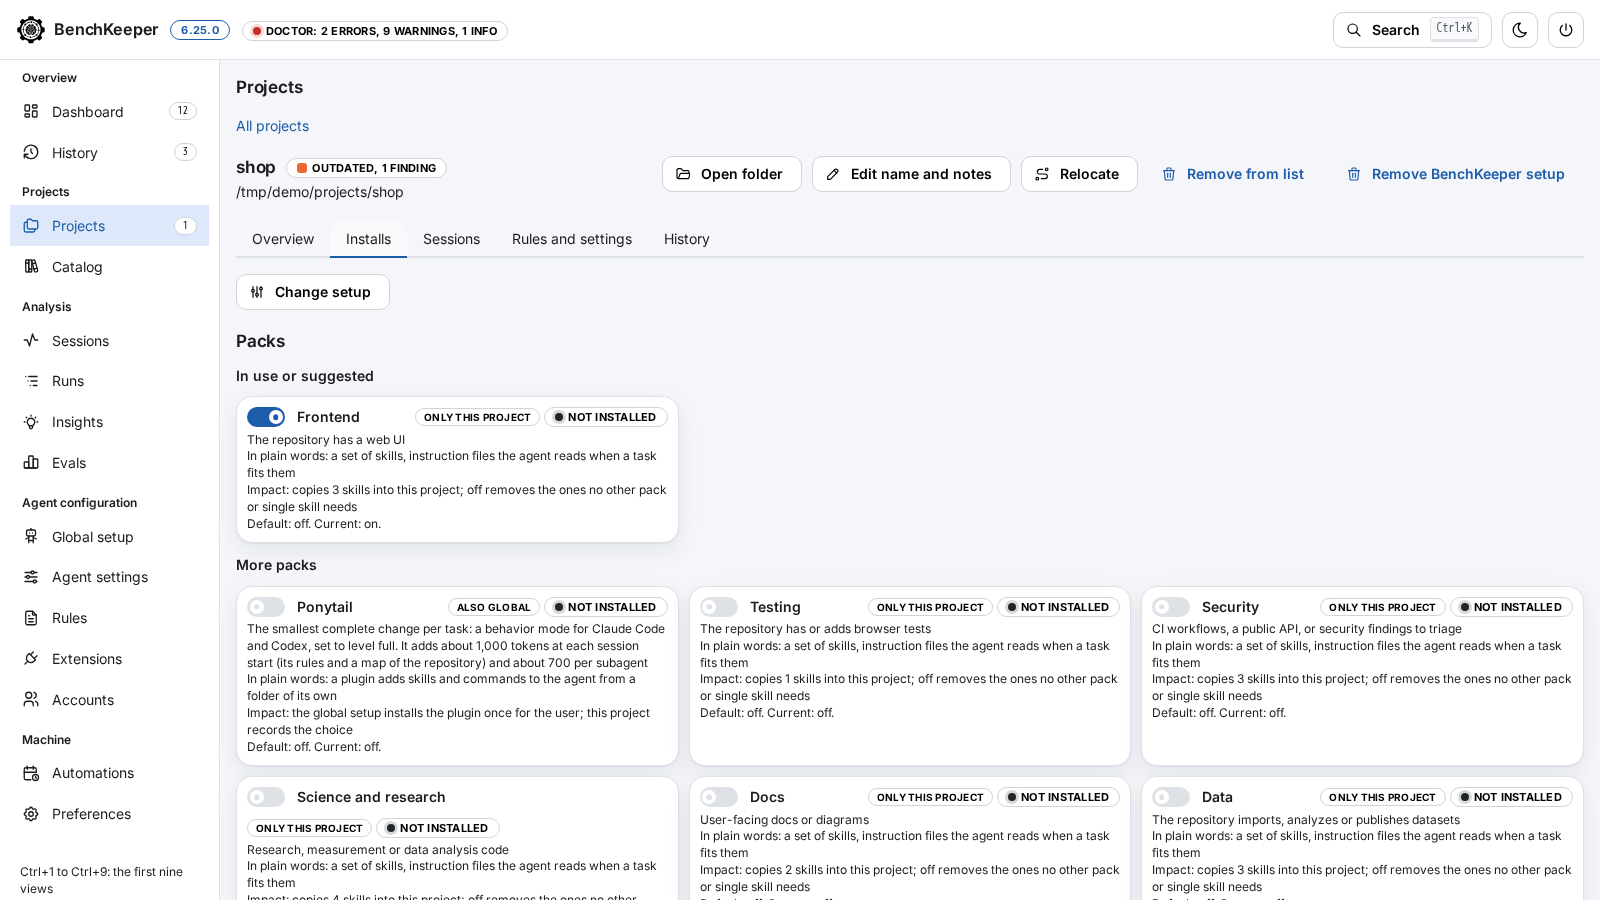
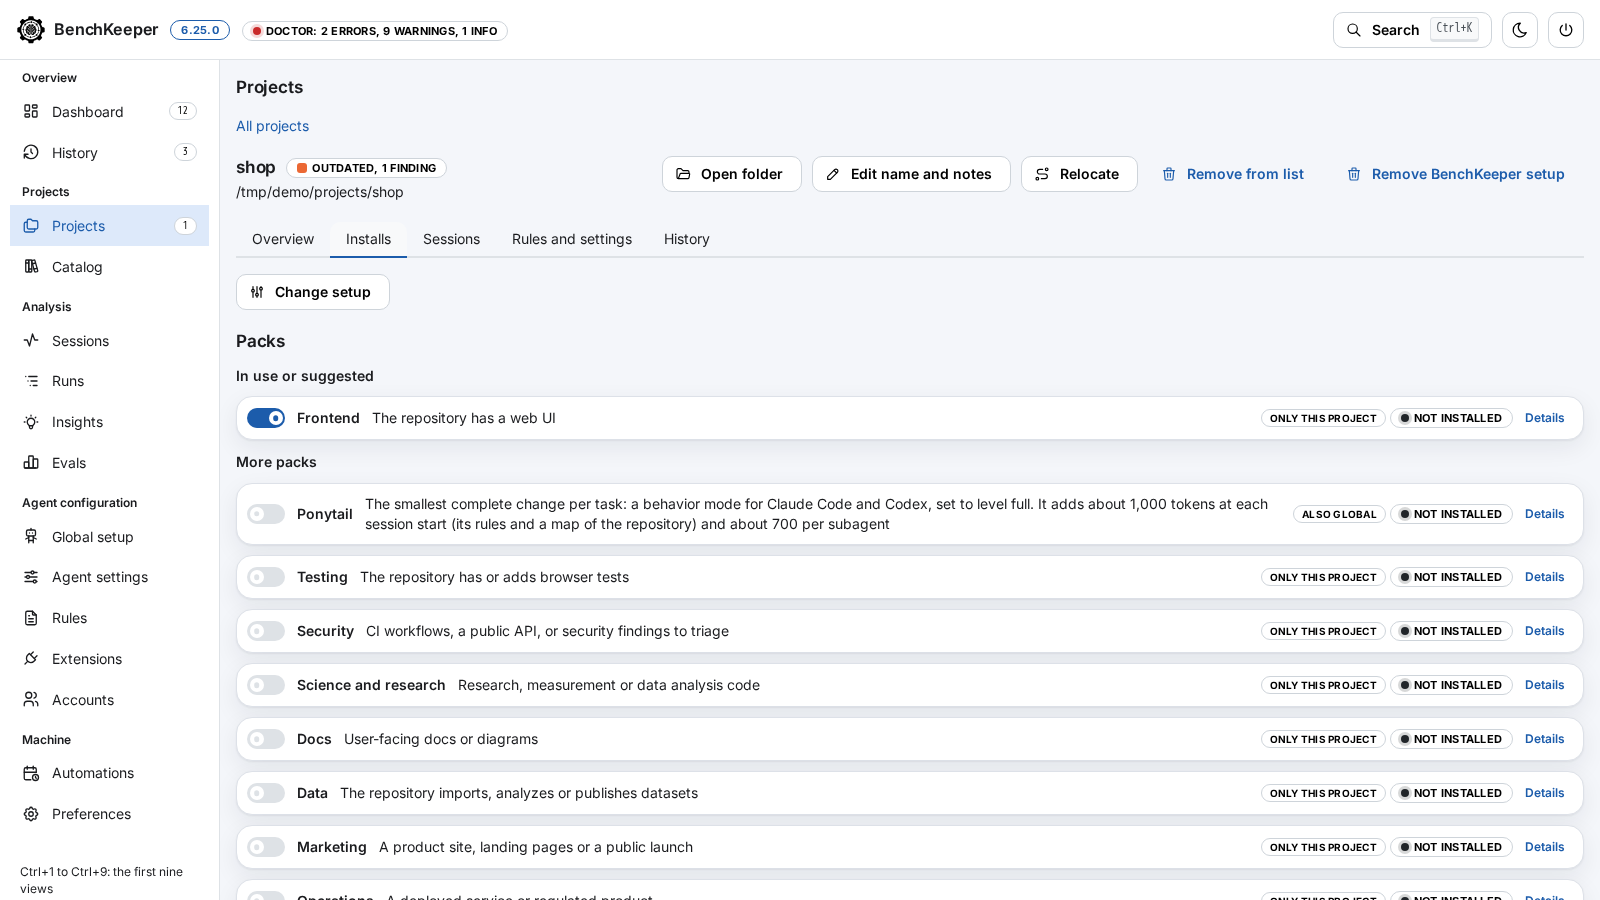
feat(app): show one compact row per pack in the Installs tab (#833)
Each pack in a project's Installs tab is one full-width row: the switch with the pack name, the one-sentence summary, and the scope and state chips. Plain words, impact, and default and current open under a Details button per pack. Switching a pack, its scope and its state work as before; the Skills and Agent files sections are unchanged.

Refs #802

diff --git a/app/ui/skillstates.jsx b/app/ui/skillstates.jsx
@@ -1,5 +1,5 @@
-import { Badge, Button, Group, Loader, Modal, Paper, Select, SimpleGrid, Stack, Switch, Table, Text, Title } from '@mantine/core';
-import { useRef, useState } from 'react';
+import { Badge, Button, Group, Loader, Modal, Paper, Select, Stack, Switch, Table, Text, Title } from '@mantine/core';
+import { useId, useRef, useState } from 'react';
 import { Plan, Section, StateBadge } from './parts.jsx';
 import { Loading, Note, icon, useApi } from './shell.jsx';
 import { label } from './cards.js';
@@ -9,24 +9,42 @@ const STATES = ['current', 'outdated', 'modified', 'removed', 'disabled'];
 const short = (ref) => ref?.slice(0, 12);
 
 // One row of a project's Installs tab: a switch, the scope hint, the state on disk, the scopes an agent fixes with the reason,
-// and the five facts of the explainer (summary, plain words, impact, default, current). A busy switch ignores clicks but
-// stays focusable (a disabled input loses the keyboard focus).
-export function InstallRow({ label, checked, onChange, disabled, busy, hint, state, fixed = [], facts, why }) {
+// and the five facts of the explainer (summary, plain words, impact, default, current). A row with `details` (a pack: the
+// accessible name of its Details button) is one line, the summary beside the switch, the other facts shown on Details. A
+// busy switch ignores clicks but stays focusable (a disabled input loses the keyboard focus).
+export function InstallRow({ label, checked, onChange, disabled, busy, hint, state, fixed = [], facts, why, details }) {
+  const [open, setOpen] = useState(false);
+  const id = useId();
+  const toggle = <Switch checked={checked} onChange={busy ? () => {} : onChange} disabled={disabled} aria-disabled={busy || undefined} style={busy ? { opacity: 0.6 } : undefined} label={label} />;
+  const chips = <Group gap={4}><Badge variant="default" size="sm">{hint}</Badge><StateBadge state={state} /></Group>;
+  const more = (
+    <>
+      <Text size="xs">In plain words: {facts.eli5}</Text>
+      <Text size="xs">Impact: {facts.impact}</Text>
+      <Text size="xs">Default: {facts.default}. Current: {facts.current}.</Text>
+    </>
+  );
   return (
     <Paper withBorder p="xs">
       <Stack gap={4}>
-        <Group justify="space-between" align="flex-start" gap="xs">
-          <Switch checked={checked} onChange={busy ? () => {} : onChange} disabled={disabled} aria-disabled={busy || undefined} style={busy ? { opacity: 0.6 } : undefined} label={label} />
-          <Group gap={4}><Badge variant="default" size="sm">{hint}</Badge><StateBadge state={state} /></Group>
-        </Group>
+        {details ? (
+          <Group justify="space-between" gap="xs">
+            <Group gap="sm" style={{ flex: '1 1 320px', overflowWrap: 'anywhere' }}>{toggle}<Text size="sm" style={{ flex: '1 1 260px' }}>{facts.summary}</Text></Group>
+            <Group gap={4}>{chips}<Button size="compact-xs" variant="subtle" aria-label={details} aria-expanded={open} aria-controls={id} onClick={() => setOpen((o) => !o)}>Details</Button></Group>
+          </Group>
+        ) : (
+          <Group justify="space-between" align="flex-start" gap="xs">{toggle}{chips}</Group>
+        )}
         {why && <Text size="xs">Fixed: {why}.</Text>}
         {fixed.map((f) => <Text key={f.agent} size="xs">{f.agent}: {f.scope === 'global' ? 'also global' : 'only this project'}, fixed: {f.reason}.</Text>)}
-        <Stack gap={0} style={{ overflowWrap: 'anywhere' }}>
-          <Text size="xs">{facts.summary}</Text>
-          <Text size="xs">In plain words: {facts.eli5}</Text>
-          <Text size="xs">Impact: {facts.impact}</Text>
-          <Text size="xs">Default: {facts.default}. Current: {facts.current}.</Text>
-        </Stack>
+        {details ? (
+          open && <Stack id={id} gap={0} style={{ overflowWrap: 'anywhere' }}>{more}</Stack>
+        ) : (
+          <Stack gap={0} style={{ overflowWrap: 'anywhere' }}>
+            <Text size="xs">{facts.summary}</Text>
+            {more}
+          </Stack>
+        )}
       </Stack>
     </Paper>
   );
@@ -57,7 +75,7 @@ export function PackSwitches({ packs, project, others, toggles, setToggles, busy
   const rest = packs.filter((p) => !p.owner), owners = packs.filter((p) => p.owner);
   const groups = [['In use or suggested', rest.filter(near)], ['More packs', rest.filter((p) => !near(p))]].filter(([, list]) => list.length);
   const row = (p, eli5) => (
-    <InstallRow key={p.id} checked={p.enabled} onChange={() => flip(p)} busy={busy} hint={p.hint} state={p.state} fixed={p.fixed} facts={packFacts(p, eli5)}
+    <InstallRow key={p.id} details={`Details of ${p.title}`} checked={p.enabled} onChange={() => flip(p)} busy={busy} hint={p.hint} state={p.state} fixed={p.fixed} facts={packFacts(p, eli5)}
       label={<Group gap="xs"><Text fw={600} size="sm">{p.title}</Text>{p.suggested && <Badge variant="default" size="sm">suggested</Badge>}</Group>} />
   );
   return (
@@ -66,13 +84,13 @@ export function PackSwitches({ packs, project, others, toggles, setToggles, busy
         {groups.map(([group, list], g) => (
           <div key={group} role="group" aria-labelledby={`packs-${g}`}>
             <Text id={`packs-${g}`} size="sm" fw={600} mb="xs">{group}</Text>
-            <SimpleGrid cols={{ base: 1, sm: 2, lg: 3 }} spacing="xs">{list.map((p) => row(p))}</SimpleGrid>
+            <Stack gap="xs">{list.map((p) => row(p))}</Stack>
           </div>
         ))}
         {!!sources.length && <Select label="Copy packs from project" placeholder="Choose a project" clearable disabled={busy} maw={360} data={sources.map((o) => ({ value: o.path, label: `${label(o)}: ${o.packs.join(', ') || 'no packs'}` }))} onChange={copyFrom} />}
         <Text size="sm">Nothing is written before the plan below is applied.</Text>
       </Section>
-      {!!owners.length && <Section title="Workflow owner"><SimpleGrid cols={{ base: 1, sm: 2, lg: 3 }} spacing="xs">{owners.map((p) => row(p, OWNER))}</SimpleGrid></Section>}
+      {!!owners.length && <Section title="Workflow owner"><Stack gap="xs">{owners.map((p) => row(p, OWNER))}</Stack></Section>}
     </>
   );
 }

diff --git a/web/src/components/AppPage.tsx b/web/src/components/AppPage.tsx
@@ -45,7 +45,7 @@ export const VIEWS: { id: string; view: string; title: string; shot: string; alt
   },
   {
     id: 'projects', view: 'projects', title: 'Projects and pack switching', shot: 'projects',
-    alt: 'The Installs tab of the project shop, outdated with one finding: its packs as switches, the pack in use or suggested first, then the others, each with its scope, its state, what it is for and what turning it on copies.',
+    alt: 'The Installs tab of the project shop, outdated with one finding: its packs as switches, the pack in use or suggested first, then the others, one row each with its scope, its state, what it is for and a Details button for what turning it on copies.',
     text: [
       'Each registered project is a card with its health, setup, packs and sessions of the last 30 days. A project is behind when its setup version differs from the one of the app.',
       'The Installs tab of a project lists the packs in use or suggested first, then the others, each with a switch and what it is for. A switch is a plan with a diff, and History undoes it.',
